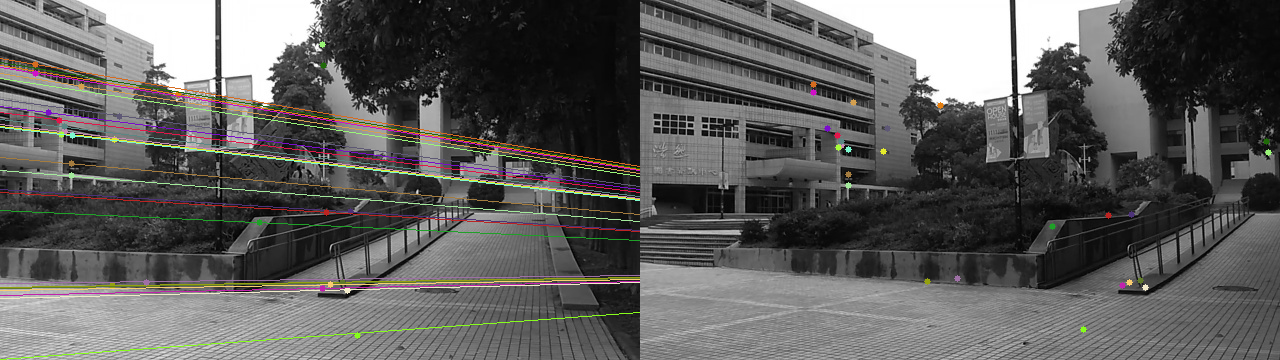
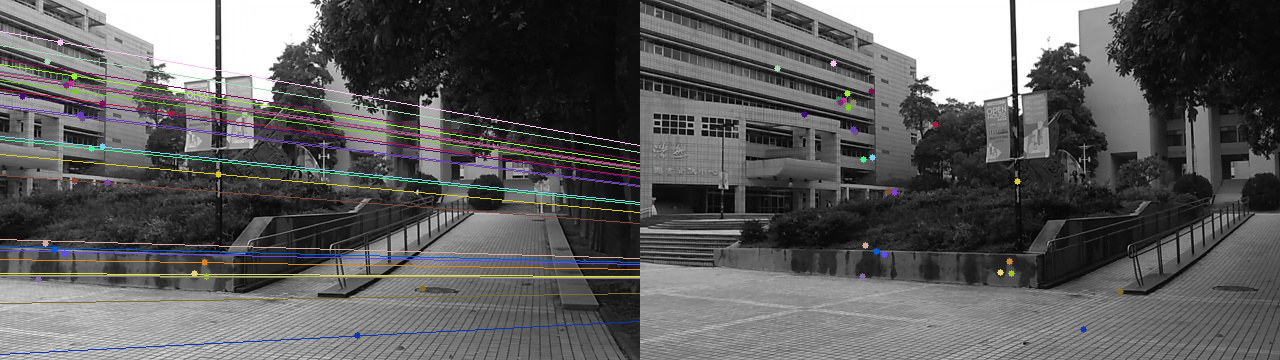
3

diff --git a/lab4/SfM.py b/lab4/SfM.py
@@ -98,8 +98,8 @@ elif case == "2":
                   [0.000000, 5423.133301, 648.950012],
                   [0.000000,    0.000000,   1.000000]], dtype=float)
 else:
-    K = np.array([[30519.1445, 11.1330655, 2008.34471],
-                  [0, 3056.12848, 1501.53437],
+    K = np.array([[30519.1696, 11.1320195, 2008.34513],
+                  [0, 3056.13104, 1501.53369],
                   [0, 0, 1]], dtype=float)
 m1, m2, m3, m4 = find_E(K, F)
 ## Step5 : find out the most appropriate solution of essential matrix
